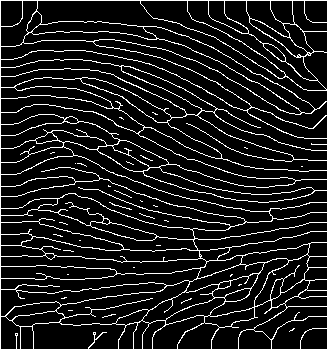
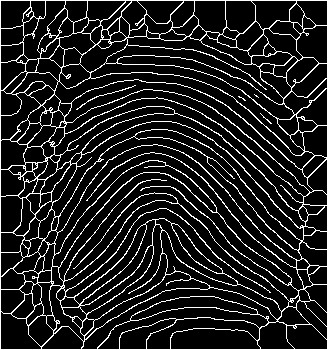
comment

Changed region(s): [[0.0, 0.0, 1.0, 1.0], [0.5488, 0.0, 0.5793, 0.0286]]

diff --git a/Demo/module/FingerprintImageEnhancer.py b/Demo/module/FingerprintImageEnhancer.py
@@ -4,6 +4,7 @@ from scipy import signal
 from scipy import ndimage
 import math
 import scipy
+from PIL import Image
 
 class FingerprintImageEnhancer(object):
     def __init__(self):
@@ -153,7 +154,8 @@ class FingerprintImageEnhancer(object):
         if np.remainder(sze,2) == 0:
             sze = sze+1
 
-        gauss = cv2.getGaussianKernel(np.int(sze),self.gradient_sigma)
+        x, y = np.mgrid[-sze // 2 + 1:sze // 2 + 1, -sze // 2 + 1:sze // 2 + 1]
+        gauss = np.exp(-(x**2 + y**2) / (2 * self.gradient_sigma**2))
         f = gauss * gauss.T
 
         fy,fx = np.gradient(f)                               #Gradient of Gaussian
@@ -166,10 +168,13 @@ class FingerprintImageEnhancer(object):
         Gxy = Gx*Gy
 
         #Now smooth the covariance data to perform a weighted summation of the data.
-        sze = np.fix(6*self.block_sigma)
+        sze = int(np.fix(6 * self.block_sigma))
+        if sze % 2 == 0:
+            sze += 1
+        gauss = np.exp(-0.5 * (np.linspace(-sze // 2, sze // 2, sze) / self.block_sigma) ** 2)
+        gauss /= np.sum(gauss) # normalize the kernel
+        f = np.outer(gauss, gauss)
 
-        gauss = cv2.getGaussianKernel(np.int(sze), self.block_sigma)
-        f = gauss * gauss.T
 
         Gxx = ndimage.convolve(Gxx,f)
         Gyy = ndimage.convolve(Gyy,f)
@@ -183,11 +188,12 @@ class FingerprintImageEnhancer(object):
 
 
         if self.orient_smooth_sigma:
-            sze = np.fix(6*self.orient_smooth_sigma)
-            if np.remainder(sze,2) == 0:
-                sze = sze+1
-            gauss = cv2.getGaussianKernel(np.int(sze), self.orient_smooth_sigma)
-            f = gauss * gauss.T
+            sze = int(np.fix(6*self.orient_smooth_sigma))
+            if sze % 2 == 0:
+                sze += 1
+            gauss = scipy.signal.windows.gaussian(sze, std=self.orient_smooth_sigma)
+            f = np.outer(gauss, gauss.T)
+
             cos2theta = ndimage.convolve(cos2theta,f)                   # Smoothed sine and cosine of
             sin2theta = ndimage.convolve(sin2theta,f)                   # doubled angles
 
@@ -505,6 +511,9 @@ class FingerprintImageEnhancer(object):
             new_cols = new_rows / aspect_ratio
 
             img = cv2.resize(img, (np.int(new_cols), np.int(new_rows)))
+
+        
+
 
         self.__ridge_segment(img)   # normalise the image and find a ROI
         self.__ridge_orient()       # compute orientation image

diff --git a/Demo/index.py b/Demo/index.py
@@ -54,10 +54,9 @@ def main():
 
     #fftenhencement(img_filename, complete_image)
     
-    # normalise the image and find a ROI
+    #normalise the image and find a ROI
     image_enhancer = FingerprintImageEnhancer()         # Create object called image_enhancer
     if(len(sys.argv)<2):                                # load input image
-        print('loading sample image')
         img_name = save_filename
         img = cv2.imread(img_name)
     elif(len(sys.argv) >= 2):

diff --git a/Demo/module/test.py b/Demo/module/test.py
@@ -1,0 +1,10 @@
+from PIL import Image
+
+# Mở hình ảnh cần chuyển sang mức xám
+image = Image.open('1.png')
+
+# Chuyển hình ảnh sang mức xám
+image = image.convert('L')
+
+# Lưu hình ảnh chuyển đổi vào tệp mới
+image.save('1ed.png')
